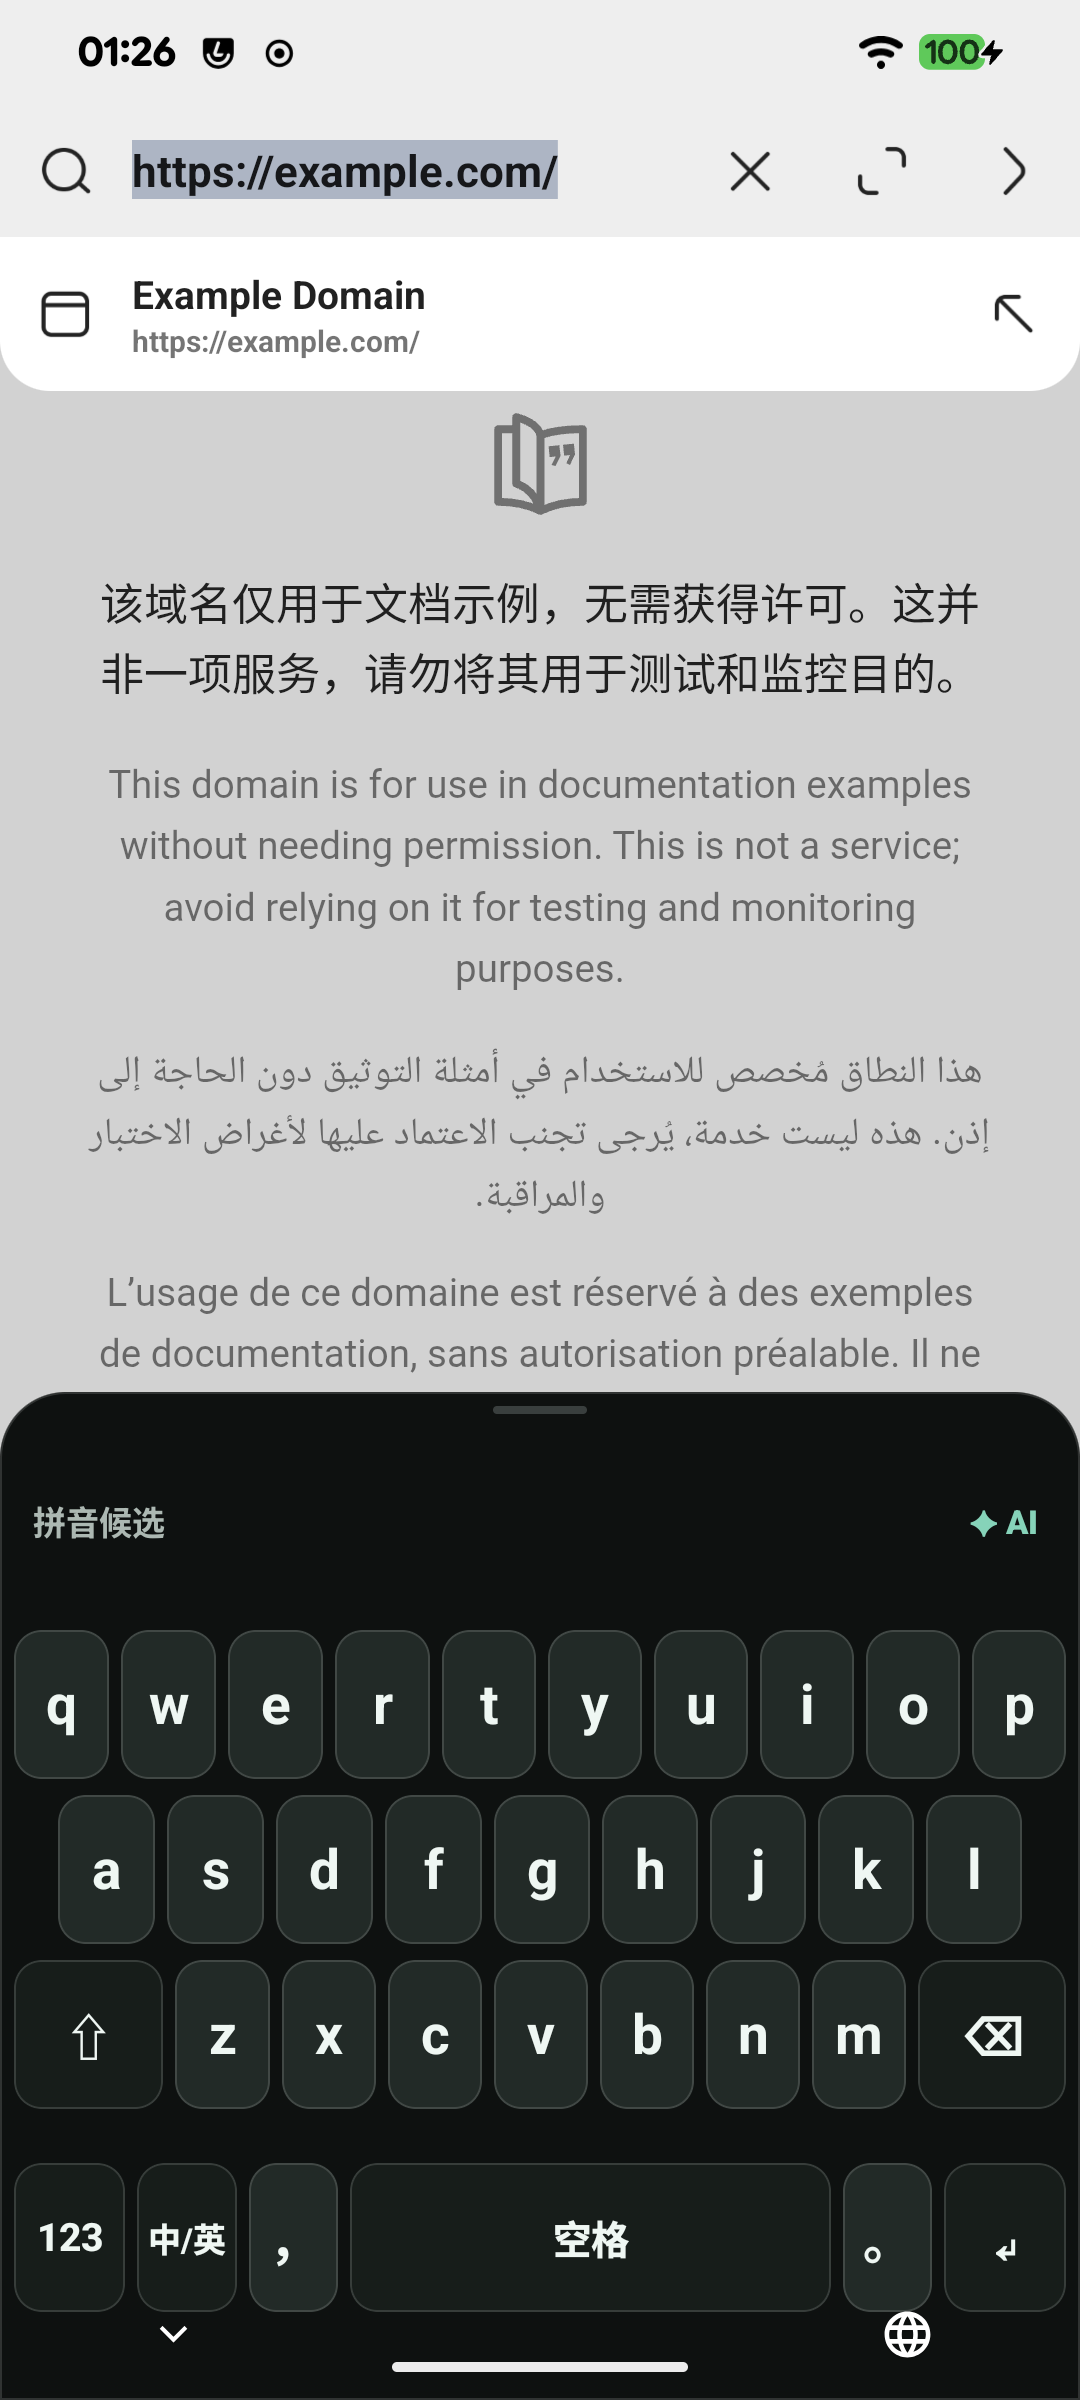
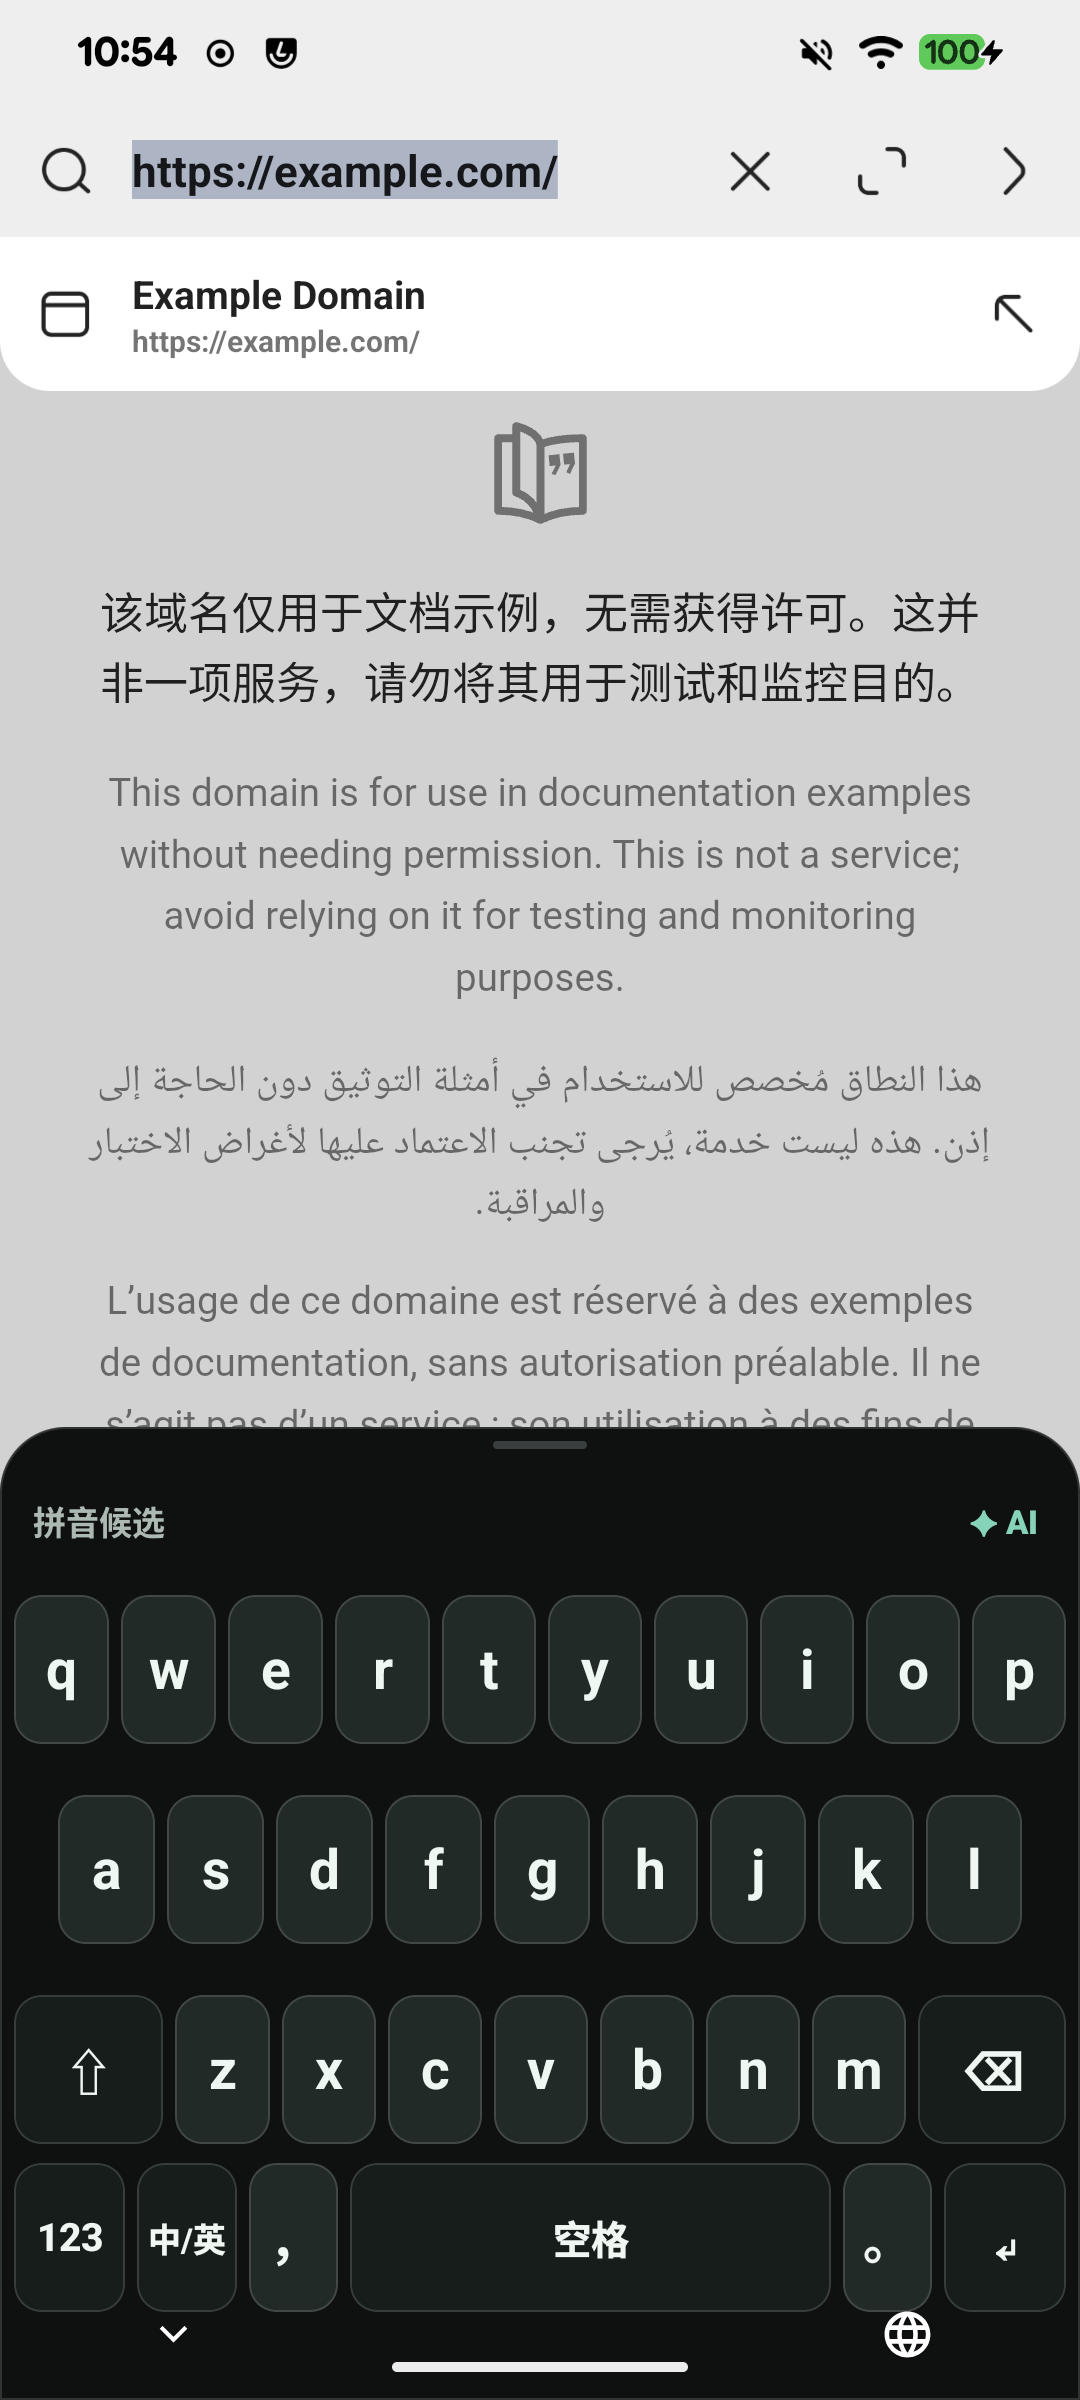
fix: distribute keyboard height between letter rows not bottom bar

diff --git a/app/src/main/java/com/bitap/keyboard/ime/KeyboardScreen.kt b/app/src/main/java/com/bitap/keyboard/ime/KeyboardScreen.kt
@@ -70,6 +70,7 @@ import com.bitap.keyboard.ui.theme.LocalBitapPalette
  */
 private val KeyboardDockShape = RoundedCornerShape(topStart = 24.dp, topEnd = 24.dp)
 private val LocalKeyboardKeyHeight = staticCompositionLocalOf { 54.dp }
+private val LocalKeyboardRowGap = staticCompositionLocalOf { 0.dp }
 
 @Composable
 fun KeyboardScreen(
@@ -94,7 +95,10 @@ fun KeyboardScreen(
         onAction(action)
     }
 
-    CompositionLocalProvider(LocalKeyboardKeyHeight provides keyHeight) {
+    CompositionLocalProvider(
+        LocalKeyboardKeyHeight provides keyHeight,
+        LocalKeyboardRowGap provides extraRowGap,
+    ) {
         Column(
             modifier = modifier
                 .fillMaxWidth()
@@ -113,7 +117,6 @@ fun KeyboardScreen(
                 .border(0.5.dp, palette.hairline, KeyboardDockShape)
                 .windowInsetsPadding(WindowInsets.navigationBars)
                 .padding(top = 5.dp, bottom = 4.dp),
-            verticalArrangement = Arrangement.spacedBy(extraRowGap),
         ) {
             // A quiet visual dock line replaces the old hard top edge. It is
             // decorative, not a drag handle: height is controlled in Settings.
@@ -540,7 +543,10 @@ private fun LetterLayout(
     press: (KeyboardAction) -> Unit,
 ) {
     val upper = state.shift != ShiftState.Off
-    Column(modifier = Modifier.fillMaxWidth().padding(horizontal = 3.dp)) {
+    Column(
+        modifier = Modifier.fillMaxWidth().padding(horizontal = 3.dp),
+        verticalArrangement = Arrangement.spacedBy(LocalKeyboardRowGap.current),
+    ) {
         Row(modifier = Modifier.fillMaxWidth()) {
             QwertyRows[0].forEach { letter ->
                 KeyButton(
@@ -605,7 +611,10 @@ private fun SymbolLayout(
     nextLayer: KeyboardLayer,
     press: (KeyboardAction) -> Unit,
 ) {
-    Column(modifier = Modifier.fillMaxWidth().padding(horizontal = 3.dp)) {
+    Column(
+        modifier = Modifier.fillMaxWidth().padding(horizontal = 3.dp),
+        verticalArrangement = Arrangement.spacedBy(LocalKeyboardRowGap.current),
+    ) {
         rows.forEachIndexed { index, row ->
             Row(
                 modifier = Modifier
